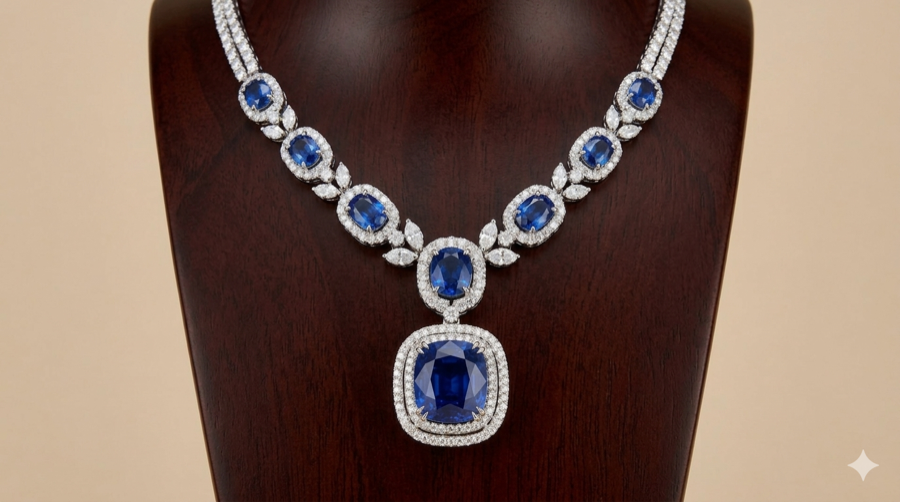
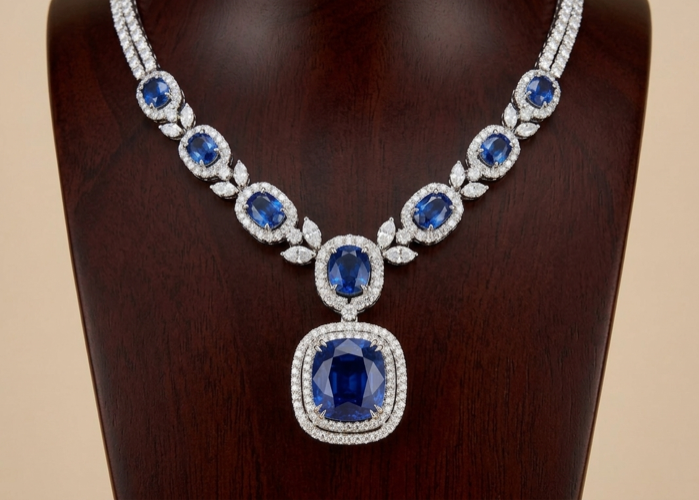
Add bracelet and necklace atelier pieces with updated imagery.
Organize wrist assets under /Bracelet/, distinguish tennis bracelets from bangles and statement pieces in the showcase, and expand the necklace collection.

diff --git a/src/app/data/fineJewelleryCollections.ts b/src/app/data/fineJewelleryCollections.ts
@@ -23,6 +23,8 @@ export type FineJewelleryCategory = {
   description: string;
 };
 
+export type BraceletKind = "tennis" | "bracelet";
+
 export type AtelierPiece = {
   id: string;
   category: JewelleryCategoryId;
@@ -31,9 +33,21 @@ export type AtelierPiece = {
   alt: string;
   title: string;
   description: string;
+  /** Tennis line vs bangle, cuff, and statement wrist pieces */
+  braceletKind?: BraceletKind;
   /** Match product photography backdrop instead of default black/cream well */
   imageWellColor?: string;
 };
+
+export function atelierPieceEyebrow(piece: AtelierPiece): string {
+  if (piece.category === "bracelets" && piece.braceletKind) {
+    return piece.braceletKind === "tennis" ? "Tennis Bracelet" : "Bracelet";
+  }
+  return (
+    FINE_JEWELLERY_CATEGORIES.find((c) => c.id === piece.category)?.title ??
+    piece.category
+  );
+}
 
 export const FINE_JEWELLERY_COLLECTIONS: FineJewelleryCollection[] = [
   {
@@ -83,7 +97,8 @@ export const FINE_JEWELLERY_CATEGORIES: FineJewelleryCategory[] = [
   {
     id: "bracelets",
     title: "Bracelets",
-    description: "Tennis styles and delicate cuffs for wrist-level sparkle.",
+    description:
+      "Bangles, cuffs, and statement wrist pieces — plus continuous-line tennis styles in round, marquise, and pear.",
   },
   {
     id: "for-him",
@@ -170,12 +185,61 @@ export const ATELIER_PIECES: AtelierPiece[] = [
   {
     id: "brace-feuille-douce",
     category: "bracelets",
+    braceletKind: "bracelet",
     productCode: "BD-BR-001",
     image: "/Bracelet2.png",
     alt: "Feuille Douce — marquise diamond bangle bracelets",
     title: "Feuille Douce",
     description:
       "Twin yellow-gold bangles set with marquise diamonds in a laurel-leaf motif — layered wrist brilliance with sculptural, house-refined proportion.",
+  },
+  {
+    id: "brace-jardin-floreal",
+    category: "bracelets",
+    braceletKind: "bracelet",
+    productCode: "BD-BR-004",
+    image: "/Bracelet/Bracelet3.png",
+    imageWellColor: "#0a0a0a",
+    alt: "Jardin Floréal — floral cluster diamond bracelet",
+    title: "Jardin Floréal",
+    description:
+      "Twin rows of marquise and round brilliants bloom in repeating floral clusters — a wide, flexible collar for the wrist with high-jewellery presence and continuous light.",
+  },
+  {
+    id: "brace-tennis-brilliant",
+    category: "bracelets",
+    braceletKind: "tennis",
+    productCode: "BD-BR-003",
+    image: "/Bracelet/necklace11.png",
+    imageWellColor: "#0a0a0a",
+    alt: "Tennis Brilliant — round diamond tennis bracelet",
+    title: "Tennis Brilliant",
+    description:
+      "A classic tennis line of round IGI-certified brilliants in four-prong settings — uninterrupted sparkle for the wrist, refined enough to wear alone or layered.",
+  },
+  {
+    id: "brace-tennis-marquise",
+    category: "bracelets",
+    braceletKind: "tennis",
+    productCode: "BD-BR-002",
+    image: "/Bracelet/necklace12.png",
+    imageWellColor: "#0a0a0a",
+    alt: "Tennis Marquise — marquise diamond tennis bracelet",
+    title: "Tennis Marquise",
+    description:
+      "Marquise brilliants set edge to edge in a continuous line — fluid fire around the wrist, composed to stack with the house's bangles and cuffs.",
+  },
+  {
+    id: "brace-tennis-poire",
+    category: "bracelets",
+    braceletKind: "tennis",
+    productCode: "BD-BR-005",
+    image: "/Bracelet/Bracelet4.png",
+    imageWellColor: "#0a0a0a",
+    alt: "Tennis Poire — three-row pear and round diamond tennis bracelet",
+    title: "Tennis Poire",
+    description:
+      "Three articulated rows of pear and round brilliants in a scalloped tennis line — wider wrist fire with the same fluid, stackable elegance as the house's classic tennis styles.",
   },
   {
     id: "neck-halo-emeraude",
@@ -277,6 +341,76 @@ export const ATELIER_PIECES: AtelierPiece[] = [
     title: "Aurora Plume",
     description:
       "Layered plumes of pear and marquise drops fan outward from a diamond-set centre — movement, depth, and gala-ready luminosity in a single atelier composition.",
+  },
+  {
+    id: "neck-tennis-classique",
+    category: "necklaces",
+    productCode: "BD-NK-014",
+    image: "/necklace/Necklace13.png",
+    alt: "Tennis Classique — round brilliant tennis necklace",
+    title: "Tennis Classique",
+    description:
+      "A continuous collar of IGI-certified round brilliants in a refined four-prong line — timeless tennis brilliance, composed for the modern neckline.",
+  },
+  {
+    id: "neck-frange-poire",
+    category: "necklaces",
+    productCode: "BD-NK-015",
+    image: "/necklace/Necklace14.png",
+    alt: "Frange Poire — pear diamond fringe necklace",
+    title: "Frange Poire",
+    description:
+      "Graduated pear drops suspended from a pavé strand — a fringe of movement and light designed for gala evenings and red-carpet presence.",
+  },
+  {
+    id: "neck-double-fil-or",
+    category: "necklaces",
+    productCode: "BD-NK-016",
+    image: "/necklace/Necklace15.png",
+    alt: "Double Fil d'Or — gold and diamond multi-strand necklace",
+    title: "Double Fil d'Or",
+    description:
+      "Twin diamond strands framed in polished yellow gold, converging on a pear and round-brilliant cascade — layered luxury with architectural proportion.",
+  },
+  {
+    id: "neck-riviere-ovale",
+    category: "necklaces",
+    productCode: "BD-NK-017",
+    image: "/necklace/Necklace16.png",
+    alt: "Rivière Ovale — graduated oval diamond necklace",
+    title: "Rivière Ovale",
+    description:
+      "Oval brilliants graduate from centre to clasp in a continuous rivière — elongated fire and even luminosity around the collarbone.",
+  },
+  {
+    id: "neck-lariat-etoile",
+    category: "necklaces",
+    productCode: "BD-NK-018",
+    image: "/necklace/Necklace17.png",
+    alt: "Lariat Étoile — Y-necklace with pear diamond drop",
+    title: "Lariat Étoile",
+    description:
+      "Round brilliants ascend to a central star stone, finishing in a pear drop — a Y-shaped lariat composed for décolletage and evening drama.",
+  },
+  {
+    id: "neck-double-rangee",
+    category: "necklaces",
+    productCode: "BD-NK-019",
+    image: "/necklace/Necklace18.png",
+    alt: "Double Rangée — two-strand pear and marquise necklace",
+    title: "Double Rangée",
+    description:
+      "Twin rows of pear and marquise diamonds in warm gold — a double-strand collar with sculptural symmetry and layered wrist-level brilliance at the throat.",
+  },
+  {
+    id: "neck-maillon-eclat",
+    category: "necklaces",
+    productCode: "BD-NK-020",
+    image: "/necklace/Necklace19.png",
+    alt: "Maillon Éclat — halo link station necklace with drop",
+    title: "Maillon Éclat",
+    description:
+      "Pavé halo links trace the chain, centred on a graduated drop of round brilliants — station-set radiance with a softly articulated silhouette.",
   },
   {
     id: "for-him-signet-line",

diff --git a/src/app/components/FineJewelleryAtelier.tsx b/src/app/components/FineJewelleryAtelier.tsx
@@ -3,8 +3,47 @@ import CollectionPhotoFrame from "./CollectionPhotoFrame";
 import {
   ATELIER_PIECES,
   FINE_JEWELLERY_CATEGORIES,
+  atelierPieceEyebrow,
+  type AtelierPiece,
+  type BraceletKind,
   type JewelleryCategoryId,
 } from "../data/fineJewelleryCollections";
+
+const BRACELET_SECTIONS: { kind: BraceletKind; title: string }[] = [
+  { kind: "bracelet", title: "Bracelets" },
+  { kind: "tennis", title: "Tennis Bracelets" },
+];
+
+function renderPieceCard(piece: AtelierPiece) {
+  return (
+    <li key={piece.id} className="flex w-full min-w-0 flex-col items-center">
+      <div className="mx-auto w-full min-w-0 max-w-[443px] md:max-w-none">
+        <CollectionPhotoFrame
+          fluid
+          darkImageWell={piece.category === "necklaces" && !piece.imageWellColor}
+          imageWellColor={piece.imageWellColor}
+          src={piece.image}
+          alt={piece.alt}
+          data-name={piece.id}
+        />
+      </div>
+      <div className="mt-8 w-full max-w-[22rem] text-center">
+        <p className="text-[10px] uppercase tracking-[0.22em] text-gold-on-cream">
+          {atelierPieceEyebrow(piece)}
+        </p>
+        <h3 className="mt-3 font-editorial text-[1.35rem] tracking-[0.05em] text-[#1d3c34] md:text-2xl">
+          {piece.title}
+        </h3>
+        <p className="mt-3 text-house-body leading-relaxed text-on-cream-body">
+          {piece.description}
+        </p>
+        <p className="mt-4 text-[11px] uppercase tracking-[0.16em] text-gold-on-cream">
+          Product code: {piece.productCode}
+        </p>
+      </div>
+    </li>
+  );
+}
 
 type Props = {
   activeCategory: JewelleryCategoryId | "all";
@@ -131,38 +170,28 @@ export default function FineJewelleryAtelier({
             Pieces in this category are being prepared in the atelier. Enquire
             for availability or select another category above.
           </p>
+        ) : activeCategory === "bracelets" ? (
+          <div className="flex flex-col gap-16 md:gap-20">
+            {BRACELET_SECTIONS.map(({ kind, title }) => {
+              const sectionPieces = filteredPieces.filter(
+                (piece) => piece.braceletKind === kind,
+              );
+              if (sectionPieces.length === 0) return null;
+              return (
+                <div key={kind}>
+                  <h3 className="mb-10 text-center font-editorial text-[clamp(1.15rem,2.5vw,1.5rem)] tracking-[0.1em] text-[#1d3c34] md:mb-12">
+                    {title}
+                  </h3>
+                  <ul className="grid w-full min-w-0 gap-12 sm:grid-cols-2 lg:grid-cols-3 lg:gap-x-8 lg:gap-y-16">
+                    {sectionPieces.map(renderPieceCard)}
+                  </ul>
+                </div>
+              );
+            })}
+          </div>
         ) : (
           <ul className="grid w-full min-w-0 gap-12 sm:grid-cols-2 lg:grid-cols-3 lg:gap-x-8 lg:gap-y-16">
-            {filteredPieces.map((piece) => (
-              <li key={piece.id} className="flex w-full min-w-0 flex-col items-center">
-                <div className="mx-auto w-full min-w-0 max-w-[443px] md:max-w-none">
-                  <CollectionPhotoFrame
-                    fluid
-                    darkImageWell={piece.category === "necklaces" && !piece.imageWellColor}
-                    imageWellColor={piece.imageWellColor}
-                    src={piece.image}
-                    alt={piece.alt}
-                    data-name={piece.id}
-                  />
-                </div>
-                <div className="mt-8 w-full max-w-[22rem] text-center">
-                  <p className="text-[10px] uppercase tracking-[0.22em] text-gold-on-cream">
-                    {FINE_JEWELLERY_CATEGORIES.find(
-                      (c) => c.id === piece.category,
-                    )?.title ?? piece.category}
-                  </p>
-                  <h3 className="mt-3 font-editorial text-[1.35rem] tracking-[0.05em] text-[#1d3c34] md:text-2xl">
-                    {piece.title}
-                  </h3>
-                  <p className="mt-3 text-house-body leading-relaxed text-on-cream-body">
-                    {piece.description}
-                  </p>
-                  <p className="mt-4 text-[11px] uppercase tracking-[0.16em] text-gold-on-cream">
-                    Product code: {piece.productCode}
-                  </p>
-                </div>
-              </li>
-            ))}
+            {filteredPieces.map(renderPieceCard)}
           </ul>
         )}
       </div>
